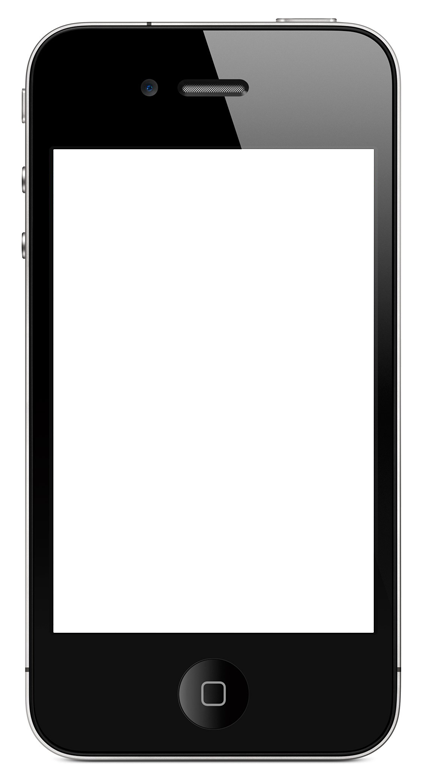
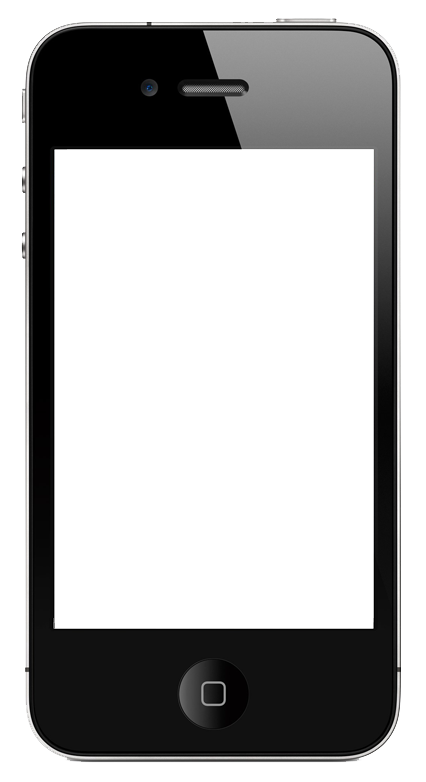
add jquery, change iphone display

diff --git a/src/styles/main.css b/src/styles/main.css
@@ -34,7 +34,7 @@ h3{ font-size: 1.2em;}
 #iphone-div{
 	margin:auto;
 	margin-top:100px;
-	
+	z-index:-999;
 	height:782px;
 	width:426px;
 	background-image:url('../img/iphone.png');
@@ -43,12 +43,12 @@ h3{ font-size: 1.2em;}
 
 #iphone-iframe{
 	position:relative;
-	top:150px;
+	top:149px;
 	left:54px;
     background-color: transparent;
     border: 0px none transparent;
     padding: 0px;
     overflow: hidden;
-	z-index:-900;
+	z-index:-800;
 }
 /* End iphone iframe style */

diff --git a/src/index.php b/src/index.php
@@ -10,6 +10,7 @@ include_once('includes/firstLine.php'); //include this to check sessions.
 	<link rel="stylesheet" type="text/css" href="styles/reset.css">
 	<!-- main CSS-->
 	<link rel="stylesheet" type="text/css" href="styles/main.css">
+	<script src="http://ajax.googleapis.com/ajax/libs/jquery/1.10.2/jquery.min.js"></script>
 </head>
 
 <body>

diff --git a/src/includes/iphoneTemplate.php b/src/includes/iphoneTemplate.php
@@ -8,6 +8,7 @@
 	<link rel="stylesheet" type="text/css" href="styles/main.css">
 	<!-- iphone CSS-->
 	<link rel="stylesheet" type="text/css" href="styles/iphone.css">
+	<script src="http://ajax.googleapis.com/ajax/libs/jquery/1.10.2/jquery.min.js"></script>
 </head>
 
 <body>

diff --git a/src/includes/firstLine.php b/src/includes/firstLine.php
@@ -7,6 +7,9 @@ if(!isset($_SESSION['name']) || empty($_SESSION['name'])){
 	$_SESSION['name'] = "John/Jane Doe";
 }
 
+/* Timezone default set to new york*/
+date_default_timezone_set('America/New_York');
+
 /*
 	Safety check on the 3 traits
 */
